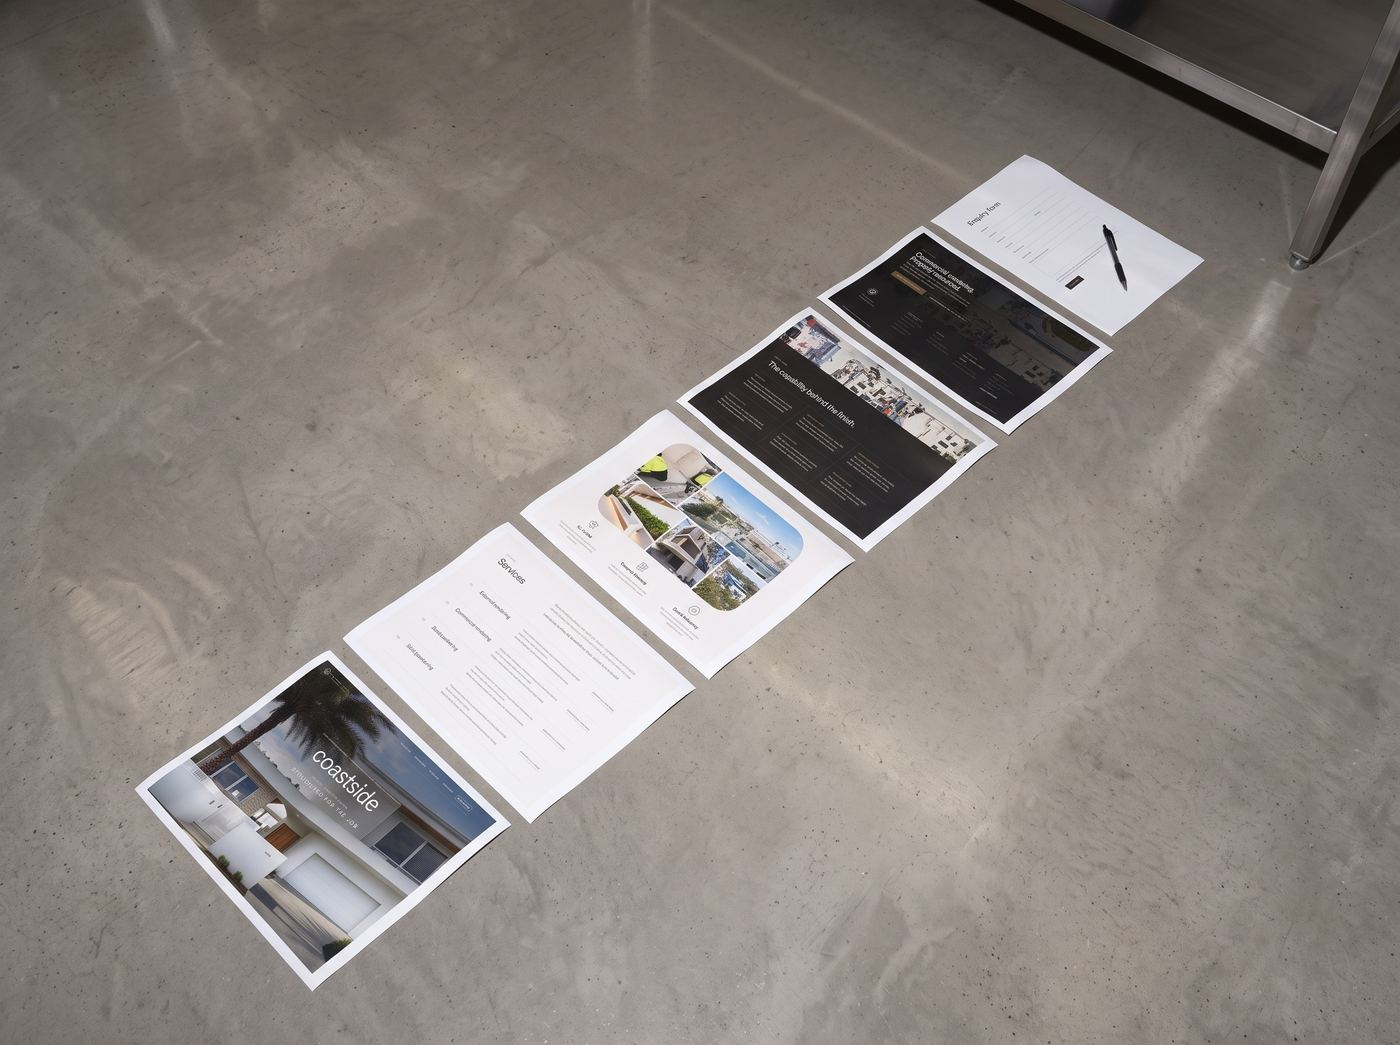
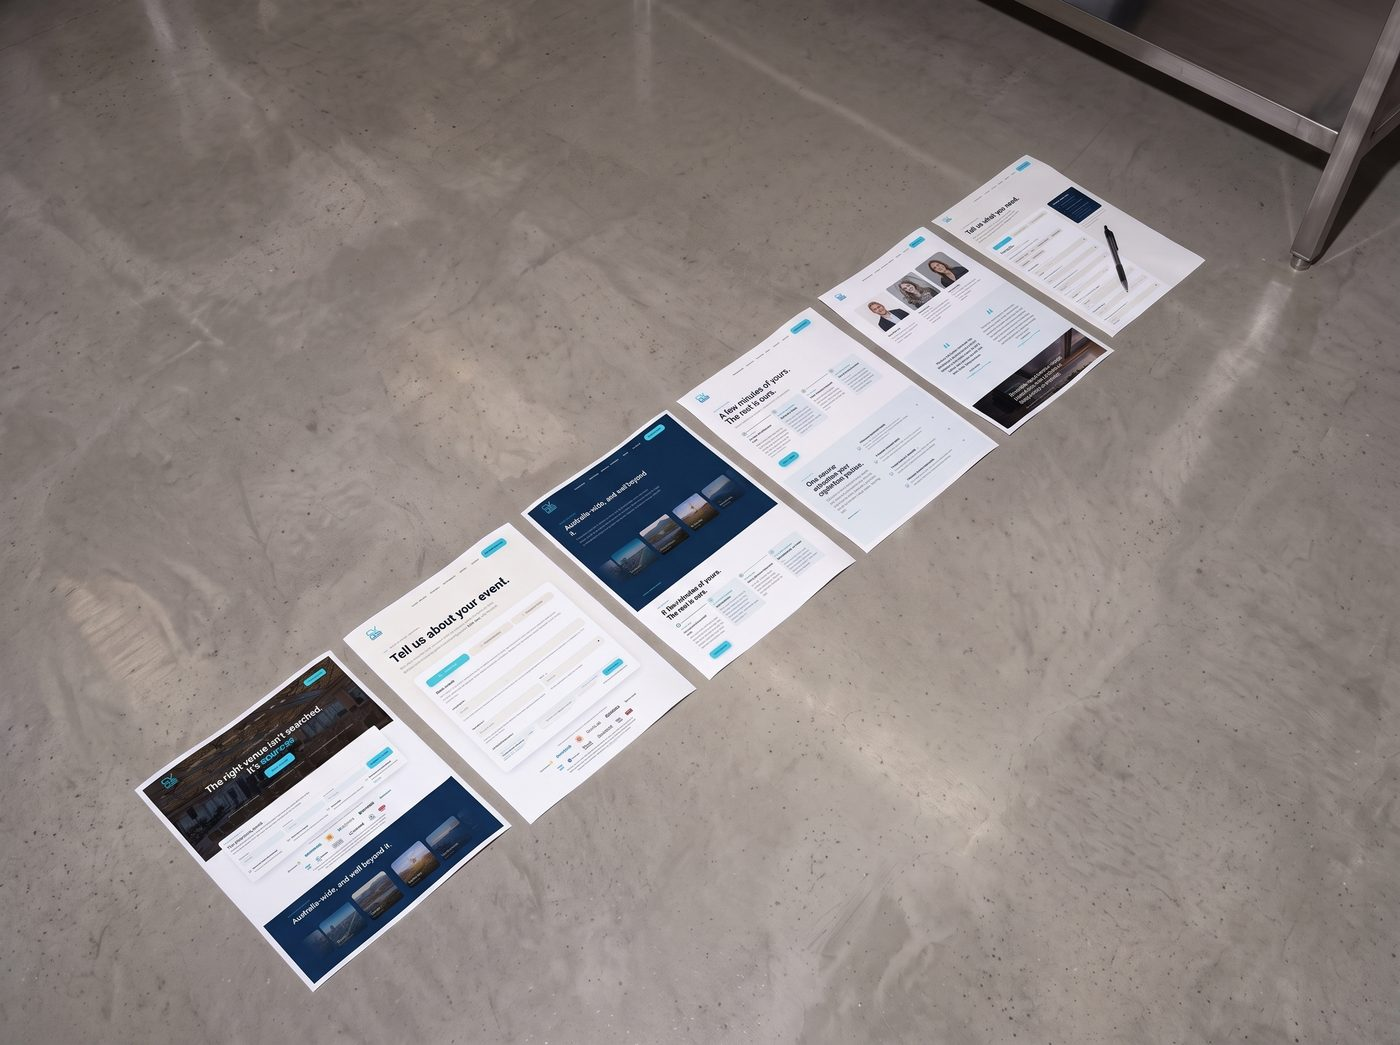
Five layers section rebuilt around CVBS

diff --git a/index.html b/index.html
@@ -249,34 +249,34 @@ footer small{display:block;margin-top:14px;opacity:.55;font-size:13px}
   <div class="wrap">
     <div class="tear-head">
       <div><span class="mono">One build, taken apart</span><h2 class="caps">The five layers under a website that works.</h2></div>
-      <p>Coastside Solid Plastering renders and plasters commercial projects on the Gold Coast. Their buyers are builders and project managers, not homeowners. Here is what went into the site before anyone saw a colour.</p>
+      <p>CVBS has been sourcing conference venues for Australian organisations since 1989. Their buyers are executive assistants and event organisers who can't afford to get the venue wrong. Here is what went into the new site before anyone saw a colour.</p>
     </div>
 
     <div class="layers">
       <article class="layer rv">
         <div class="txt"><span class="num">01 · Strategy</span><h3 class="caps">The expensive part starts before the design.</h3>
-        <p>Who needs to find you, what they need to know, and what happens next. For a commercial renderer that meant leading with crew capacity, systems and documentation, because that is what a builder checks before sending plans.</p></div>
-        <div class="fig"><img src="v2/assets/layer-strategy.jpg?v=20260927f" alt="A sitemap made of index cards pinned to the wall and joined with string, ending at an enquiry card" loading="lazy"></div>
+        <p>Who needs to find you, what they need to know, and what happens next. An EA booking a conference isn't shopping for a venue. They're looking for someone they can trust with the decision. So the site leads with the people, the process and a shortlist in 48 hours, not a search box.</p></div>
+        <div class="fig"><img src="v2/assets/layer-strategy.jpg?v=20260927cvbs" alt="The CVBS sitemap made of index cards pinned to the wall and joined with string, ending at a Submit a brief card" loading="lazy"></div>
       </article>
       <article class="layer rv">
         <div class="txt"><span class="num">02 · Copy</span><h3 class="caps">Good copy doesn't sound like everyone else.</h3>
-        <p>"Quality you can trust" says nothing. "The specification comes first" tells a builder exactly what kind of subcontractor they are dealing with. Every generic line is cut until the site sounds like the business, not the internet.</p></div>
-        <div class="fig"><img src="v2/assets/layer-copy.jpg?v=20260927h" alt="Printed homepages pinned to a wall: generic pages that all say Quality you can trust, beside real CVBS, Gold Foil Books and Coastside homepages" loading="lazy"></div>
+        <p>"Find your perfect venue" is on every booking site. "The right venue isn't searched. It's sourced." says what CVBS does that a search box can't. Every generic line is cut until the site sounds like the business, not the internet.</p></div>
+        <div class="fig"><img src="v2/assets/layer-copy.jpg?v=20260927cvbs" alt="Three generic venue sites that all say Find your perfect venue, clipped to a wall beside the real CVBS homepage" loading="lazy"></div>
       </article>
       <article class="layer rv">
         <div class="txt"><span class="num">03 · Search</span><h3 class="caps">The best website is useless if nobody finds it.</h3>
-        <p>Services, projects and service areas are structured and connected so Google understands what you do and where you do it. Search isn't something added afterwards. It is the architecture.</p></div>
-        <div class="fig"><img src="v2/assets/layer-search.jpg?v=20260927f" alt="Hundreds of blank sheets face down on the floor with one Coastside page face up in a spotlight" loading="lazy"></div>
+        <p>Every destination, from Sydney to the Hunter Valley, has its own page, connected to the services behind it, so Google understands what CVBS does and where. Search isn't something added afterwards. It is the architecture.</p></div>
+        <div class="fig"><img src="v2/assets/layer-search.jpg?v=20260927cvbs" alt="Hundreds of blank sheets face down on the floor with one CVBS Sydney destination page face up in a spotlight" loading="lazy"></div>
       </article>
       <article class="layer rv">
         <div class="txt"><span class="num">04 · Enquiries</span><h3 class="caps">Traffic isn't the end goal. Enquiries are.</h3>
-        <p>Every section has a job. The hero gives context, the projects give proof, the capability section builds confidence, and one clear next step asks for the plans. Nothing sits on the page without a reason.</p></div>
-        <div class="fig"><img src="v2/assets/layer-enquiry.jpg?v=20260927f" alt="Coastside website sections laid as a path across the floor, ending at an enquiry form" loading="lazy"></div>
+        <p>Every section has a job. The hero makes the promise, the process removes the risk, the team and client stories give proof, and every page leads to one next step: submit a brief. Nothing sits on the page without a reason.</p></div>
+        <div class="fig"><img src="v2/assets/layer-enquiry.jpg?v=20260927cvbs" alt="CVBS website sections laid as a path across the floor, ending at the brief form" loading="lazy"></div>
       </article>
       <article class="layer rv">
         <div class="txt"><span class="num">05 · Build</span><h3 class="caps">Designing it is only half the job.</h3>
-        <p>It has to load fast on a phone on site and look sharp on a desktop in the office. Forms that send, images that load, layouts that hold at every screen size. The part nobody sees is the part that decides whether it works.</p></div>
-        <div class="fig"><img src="v2/assets/layer-build.jpg?v=20260927f" alt="A mobile width strip being cut from a desktop print of the Coastside homepage on a cutting mat" loading="lazy"></div>
+        <p>It has to work on a phone between meetings and hold up on a desktop in the office. A brief form that keeps your progress, pages that load fast, layouts that hold at every screen size. The part nobody sees is the part that decides whether it works.</p></div>
+        <div class="fig"><img src="v2/assets/layer-build.jpg?v=20260927cvbs" alt="A mobile width strip being cut from a desktop print of the CVBS homepage on a cutting mat" loading="lazy"></div>
       </article>
     </div>
   </div>
@@ -296,7 +296,7 @@ footer small{display:block;margin-top:14px;opacity:.55;font-size:13px}
   <div class="wrap">
     <div class="email-head">
       <div><span class="mono" style="opacity:.6">Email marketing</span><h2 class="caps" style="margin-top:14px">Your list is already there. Let's use it.</h2></div>
-      <p>Every booking, every order, every QR code on a table is a name you already have. Most businesses never send those people anything. I write, design and send the emails, and set up the ones that run on their own. I've built email programs for Jordy's, Meat Merchant and CVBS.</p>
+      <p>Every booking, every order, every QR code on a table is a name you already have. Most businesses never send those people anything. I write, design and send the emails, and set up the ones that run on their own. Right now that includes Jordy's, Meat Merchant and CVBS.</p>
     </div>
     <div class="wide rv"><img src="v2/assets/email-campaigns.jpg?v=20260927h" alt="Printed emails for Jordy's, Meat Merchant and CVBS hanging from a kitchen docket rail" loading="lazy"></div>
     <div class="eflow">
@@ -404,7 +404,7 @@ footer small{display:block;margin-top:14px;opacity:.55;font-size:13px}
 /* Projects. Notes are one line each: what the site was built to do. */
 var FEATURED=[
  {n:'CVBS',i:'Events & Venues',l:'Worldwide',u:'https://the-service-edit.github.io/cvbs-2026/',img:'v2/assets/work-cvbs.jpg?v=20260927f',note:'A global venue finding business, rebuilt in phases around trust rather than search.'},
- {n:'Jordy\u2019s',i:'Hospitality',l:'Casuarina, NSW',u:'https://jordyscasuarina.com',img:'v2/assets/work-jordys.jpg?v=20260927l',note:'A pizza and margarita bar, built to get people booking a table or ordering in, with the email running alongside it.'},
+ {n:'Jordy\u2019s',i:'Hospitality',l:'Casuarina, NSW',u:'https://jordyscasuarina.com',img:'v2/assets/work-jordys.jpg?v=20260927j',note:'A pizza and margarita bar, built to get people booking a table or ordering in, with the email running alongside it.'},
  {n:'Coastside Solid Plastering',i:'Specialist Trades',l:'Gold Coast, QLD',u:'https://coastside.theserviceedit.com',img:'v2/assets/work-coastside.jpg?v=20260927f',note:'Commercial rendering, built so a builder can check capacity and systems before sending plans.'},
  {n:'Gold Foil Books',i:'E-commerce',l:'Wollongong, NSW',u:'https://goldfoilbooks.com.au',img:'v2/assets/work-goldfoil.jpg?v=20260927f',note:'Hand-bound special editions sold worldwide, with the craft doing the selling.'},
  {n:'NutterJuck Lures',i:'Handmade Lures',l:'Australia',u:'https://the-service-edit.github.io/nutterjuck/',img:'v2/assets/work-nutterjuck.jpg?v=20260927f',note:'Handmade fishing lures with a shop built to be as simple as the product.'},

diff --git a/v2/index.html b/v2/index.html
@@ -265,34 +265,34 @@ footer small{display:block;margin-top:14px;opacity:.55;font-size:13px}
   <div class="wrap">
     <div class="tear-head">
       <div><span class="mono">One build, taken apart</span><h2 class="caps">The five layers under a website that works.</h2></div>
-      <p>Coastside Solid Plastering renders and plasters commercial projects on the Gold Coast. Their buyers are builders and project managers, not homeowners. Here is what went into the site before anyone saw a colour.</p>
+      <p>CVBS has been sourcing conference venues for Australian organisations since 1989. Their buyers are executive assistants and event organisers who can't afford to get the venue wrong. Here is what went into the new site before anyone saw a colour.</p>
     </div>
 
     <div class="layers">
       <article class="layer rv">
         <div class="txt"><span class="num">01 · Strategy</span><h3 class="caps">The expensive part starts before the design.</h3>
-        <p>Who needs to find you, what they need to know, and what happens next. For a commercial renderer that meant leading with crew capacity, systems and documentation, because that is what a builder checks before sending plans.</p></div>
-        <div class="fig"><img src="assets/layer-strategy.jpg?v=20260927g" alt="A sitemap made of index cards pinned to the wall and joined with string, ending at an enquiry card" loading="lazy"></div>
+        <p>Who needs to find you, what they need to know, and what happens next. An EA booking a conference isn't shopping for a venue. They're looking for someone they can trust with the decision. So the site leads with the people, the process and a shortlist in 48 hours, not a search box.</p></div>
+        <div class="fig"><img src="assets/layer-strategy.jpg?v=20260927cvbs" alt="The CVBS sitemap made of index cards pinned to the wall and joined with string, ending at a Submit a brief card" loading="lazy"></div>
       </article>
       <article class="layer rv">
         <div class="txt"><span class="num">02 · Copy</span><h3 class="caps">Good copy doesn't sound like everyone else.</h3>
-        <p>"Quality you can trust" says nothing. "The specification comes first" tells a builder exactly what kind of subcontractor they are dealing with. Every generic line is cut until the site sounds like the business, not the internet.</p></div>
-        <div class="fig"><img src="assets/layer-copy.jpg?v=20260927h" alt="Printed homepages pinned to a wall: generic pages that all say Quality you can trust, beside real CVBS, Gold Foil Books and Coastside homepages" loading="lazy"></div>
+        <p>"Find your perfect venue" is on every booking site. "The right venue isn't searched. It's sourced." says what CVBS does that a search box can't. Every generic line is cut until the site sounds like the business, not the internet.</p></div>
+        <div class="fig"><img src="assets/layer-copy.jpg?v=20260927cvbs" alt="Three generic venue sites that all say Find your perfect venue, clipped to a wall beside the real CVBS homepage" loading="lazy"></div>
       </article>
       <article class="layer rv">
         <div class="txt"><span class="num">03 · Search</span><h3 class="caps">The best website is useless if nobody finds it.</h3>
-        <p>Services, projects and service areas are structured and connected so Google understands what you do and where you do it. Search isn't something added afterwards. It is the architecture.</p></div>
-        <div class="fig"><img src="assets/layer-search.jpg?v=20260927g" alt="Hundreds of blank sheets face down on the floor with one Coastside page face up in a spotlight" loading="lazy"></div>
+        <p>Every destination, from Sydney to the Hunter Valley, has its own page, connected to the services behind it, so Google understands what CVBS does and where. Search isn't something added afterwards. It is the architecture.</p></div>
+        <div class="fig"><img src="assets/layer-search.jpg?v=20260927cvbs" alt="Hundreds of blank sheets face down on the floor with one CVBS Sydney destination page face up in a spotlight" loading="lazy"></div>
       </article>
       <article class="layer rv">
         <div class="txt"><span class="num">04 · Enquiries</span><h3 class="caps">Traffic isn't the end goal. Enquiries are.</h3>
-        <p>Every section has a job. The hero gives context, the projects give proof, the capability section builds confidence, and one clear next step asks for the plans. Nothing sits on the page without a reason.</p></div>
-        <div class="fig"><img src="assets/layer-enquiry.jpg?v=20260927g" alt="Coastside website sections laid as a path across the floor, ending at an enquiry form" loading="lazy"></div>
+        <p>Every section has a job. The hero makes the promise, the process removes the risk, the team and client stories give proof, and every page leads to one next step: submit a brief. Nothing sits on the page without a reason.</p></div>
+        <div class="fig"><img src="assets/layer-enquiry.jpg?v=20260927cvbs" alt="CVBS website sections laid as a path across the floor, ending at the brief form" loading="lazy"></div>
       </article>
       <article class="layer rv">
         <div class="txt"><span class="num">05 · Build</span><h3 class="caps">Designing it is only half the job.</h3>
-        <p>It has to load fast on a phone on site and look sharp on a desktop in the office. Forms that send, images that load, layouts that hold at every screen size. The part nobody sees is the part that decides whether it works.</p></div>
-        <div class="fig"><img src="assets/layer-build.jpg?v=20260927g" alt="A mobile width strip being cut from a desktop print of the Coastside homepage on a cutting mat" loading="lazy"></div>
+        <p>It has to work on a phone between meetings and hold up on a desktop in the office. A brief form that keeps your progress, pages that load fast, layouts that hold at every screen size. The part nobody sees is the part that decides whether it works.</p></div>
+        <div class="fig"><img src="assets/layer-build.jpg?v=20260927cvbs" alt="A mobile width strip being cut from a desktop print of the CVBS homepage on a cutting mat" loading="lazy"></div>
       </article>
     </div>
   </div>
